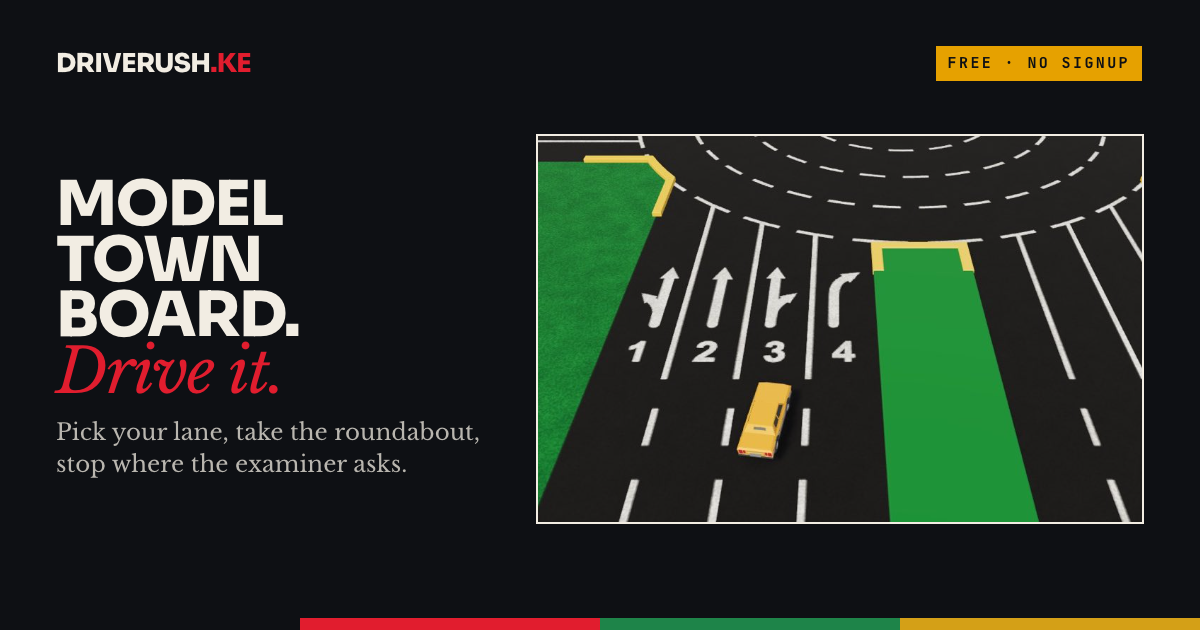
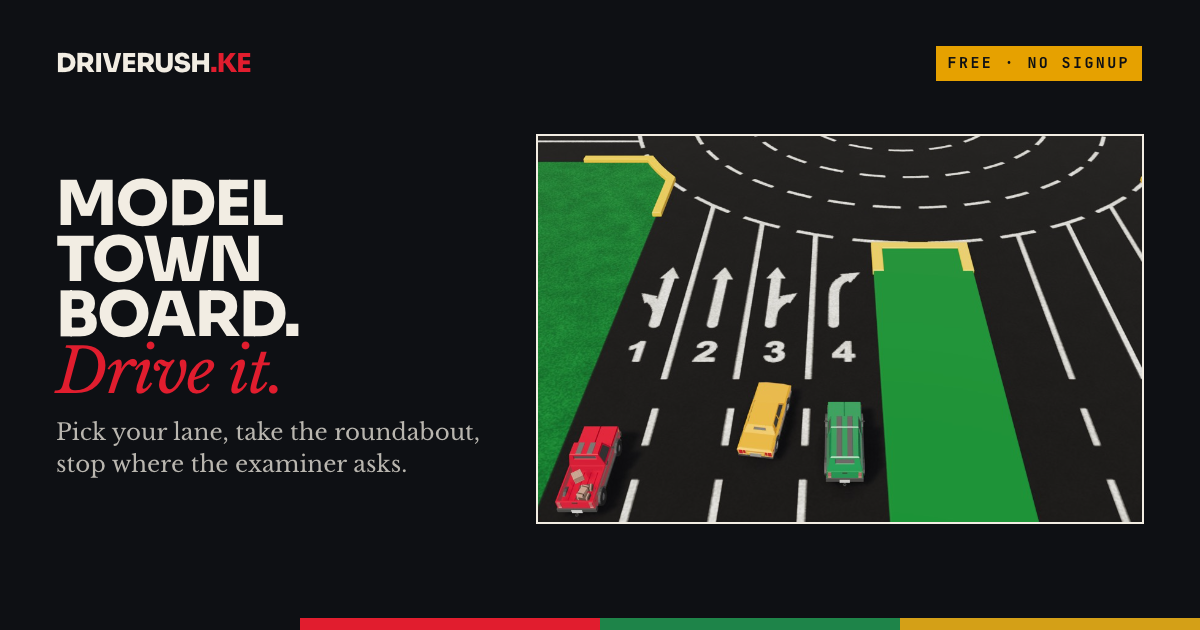
feat: show all three cars in the board picture
The board picture and its social card now show the pickup (red) and the
SUV (Kenya green) beside the yellow saloon, so every car a learner can
pick is in the shot.

Changed region(s): [[0.6783, 0.6333, 0.74, 0.7841], [0.4625, 0.6635, 0.5242, 0.8143]]

diff --git a/app/routes/tools/og.tsx b/app/routes/tools/og.tsx
@@ -409,8 +409,8 @@ const BoardTable = React.lazy(() => import("~/components/board/board-table"));
  * shows every car a learner can pick. Lane and distance from the roundabout.
  */
 const STILL_CARS = [
-  { car: "pickup", paint: "#2456b4", plate: "KDA 101B", lane: 1, along: 41 },
-  { car: "suv", paint: "#dfe3e8", plate: "KCB 442T", lane: 4, along: 39.5 },
+  { car: "pickup", paint: "#c8102e", plate: "KDA 101B", lane: 1, along: 41 },
+  { car: "suv", paint: "#1e8449", plate: "KCB 442T", lane: 4, along: 39.5 },
 ] as const;
 
 const STILL = {
